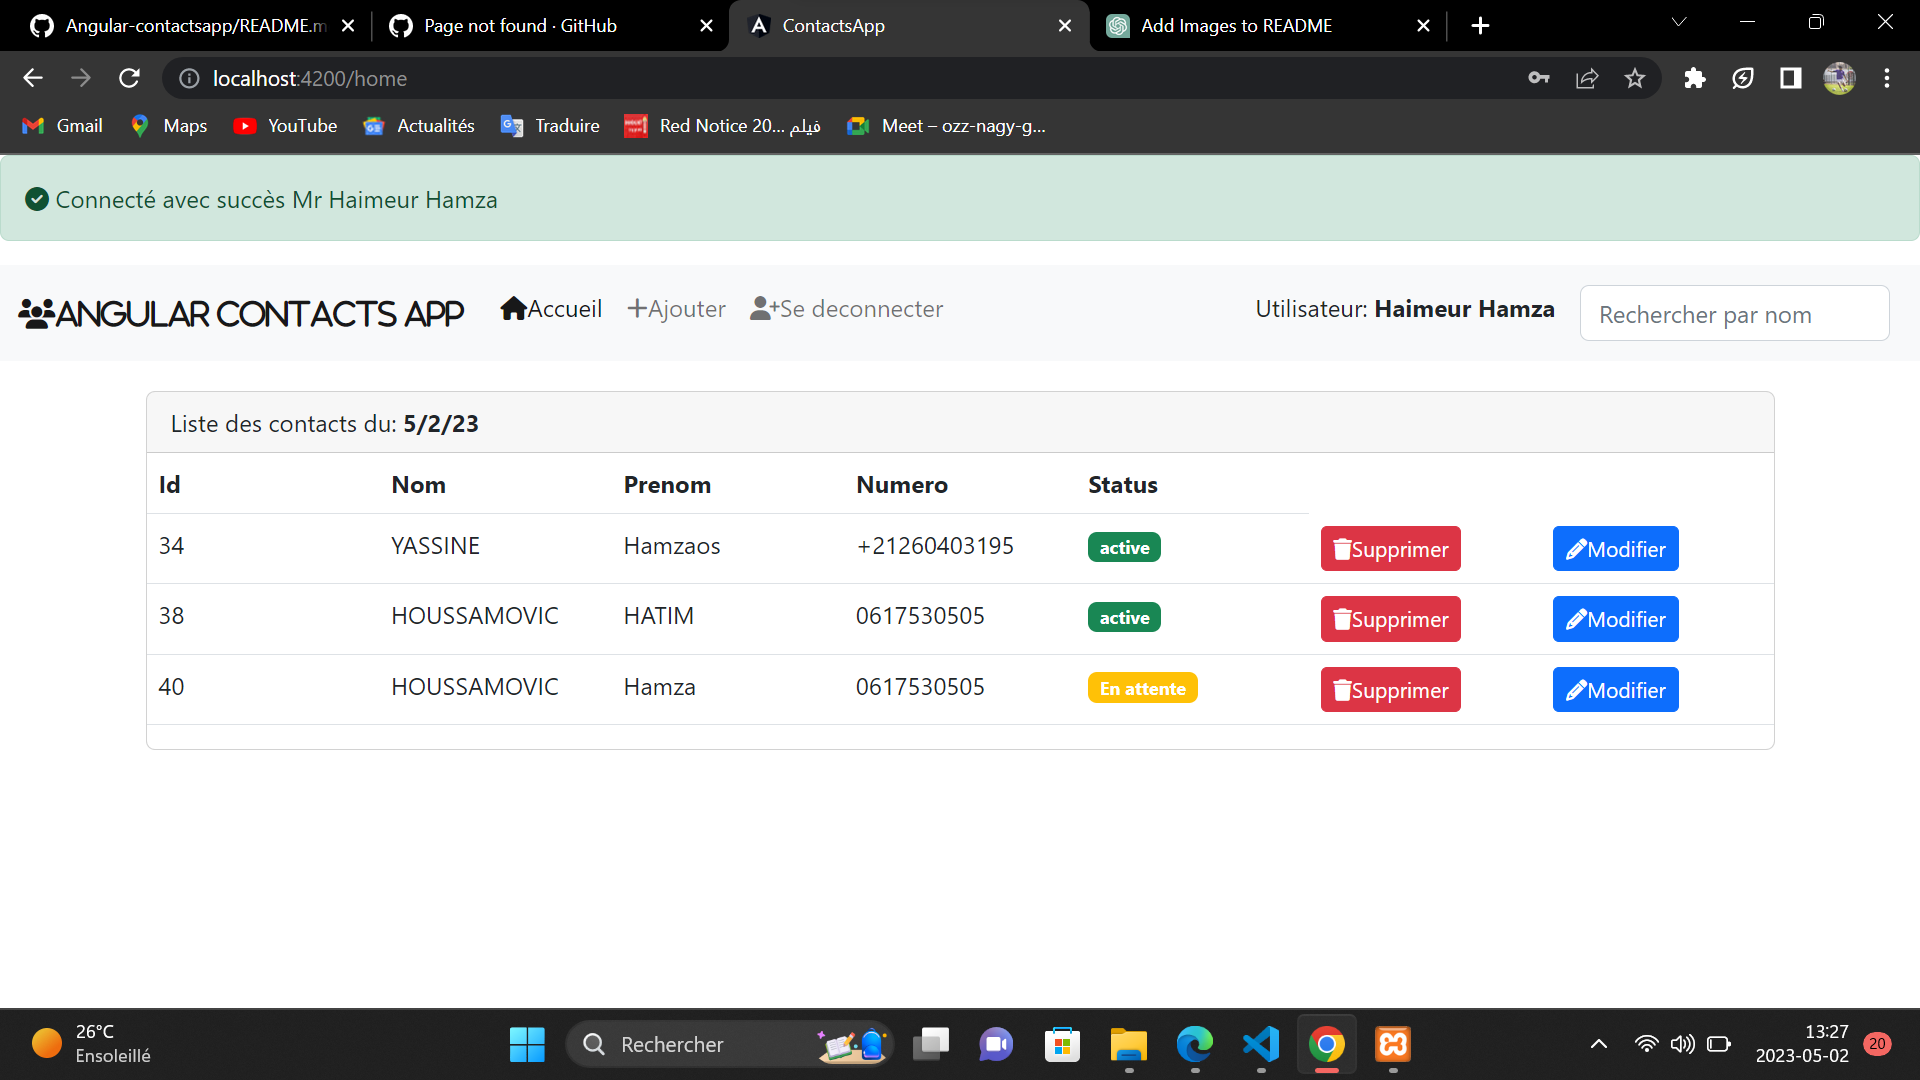
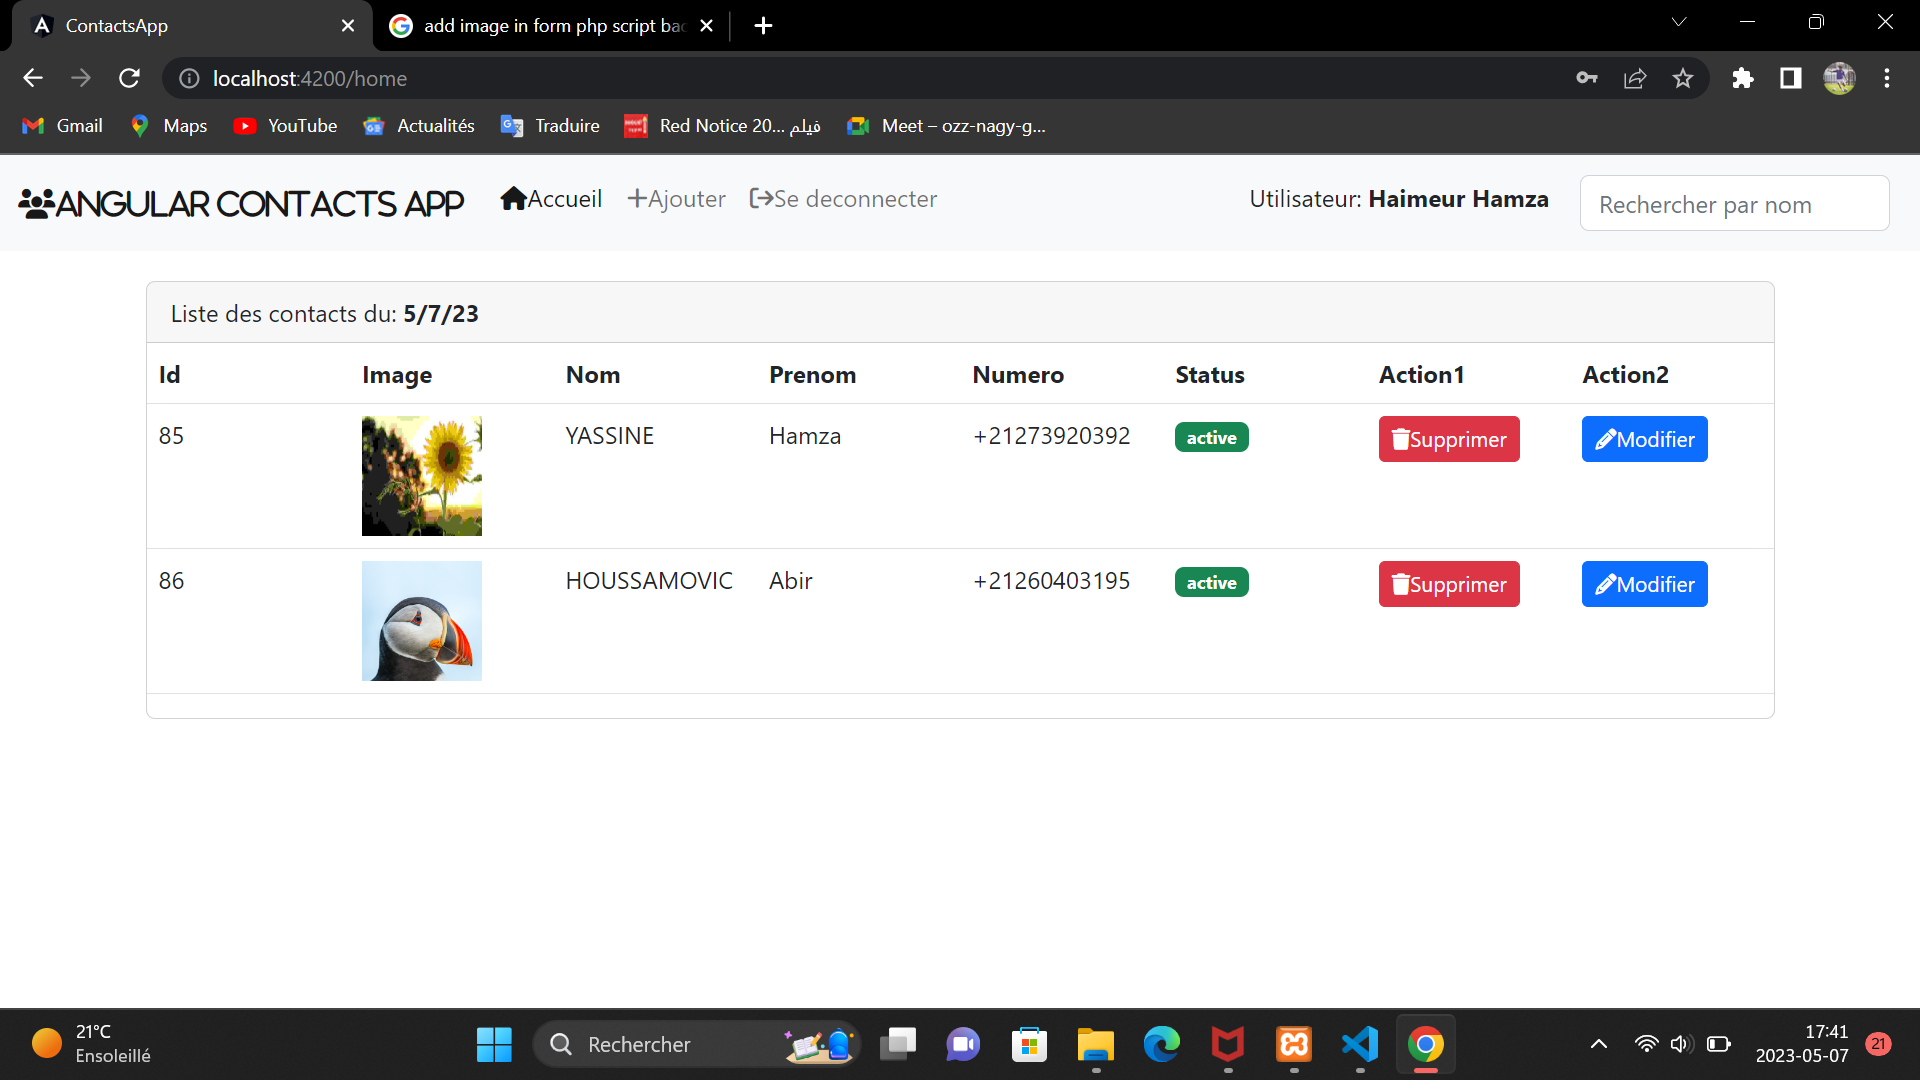
images

diff --git a/ContactsApp/src/app/add/add.component.html b/ContactsApp/src/app/add/add.component.html
@@ -1,41 +1,46 @@
 <div class="alert alert-success" *ngIf="showSuccessMessage" role="alert">
-    <i class="fas fa-check-circle animated-icon"></i>
-    Contact ajouté avec succés!
+  <i class="fas fa-check-circle animated-icon"></i>
+  Contact ajouté avec succés!
 </div>
 <div class="container">
-    <div class="card col-sm-5">
-        <div class="card-header"><i class="fa fa-plus">ajouter un patient</i></div>
-        <div class="card-body d-flex justify-content-center align-items-center h-100">
-            <form class="row" method="post">
-                <div class="col-md-12 mb-3">
-                    <label for="nomInput" class="form-label">Nom</label>
-                    <input [(ngModel)]="newContact.nom" name="nom" required type="text" class="form-control"
-                        placeholder="Nom">
-                </div>
-                <div class="col-md-12 mb-3">
-                    <label for="prenomInput" class="form-label">Prénom</label>
-                    <input [(ngModel)]="newContact.prenom" name="prenom" required type="text" class="form-control"
-                        id="prenomInput" placeholder="Prénom">
-                </div>
-                <div class="col-md-12 mb-3">
-                    <label for="telInput" class="form-label">Tel</label>
-                    <input [(ngModel)]="newContact.tel" name="tel" required type="text" class="form-control"
-                        id="telInput" placeholder="Tel">
-                </div>
-                <div class="col-md-12 mb-3">
-                    <label for="statusInput" class="form-label">Status</label>
-                    <select [(ngModel)]="newContact.status" name="status" required class="form-control"
-                        id="statusInput">
-                        <option disabled value="">-- choisir --</option>
-                        <option [ngValue]="'active'">active</option>
-                        <option [ngValue]="'inactive'">inactive</option>
-                    </select>
-                </div>
-                <div class="col-md-12">
-                    <button [disabled]="!formIsValid()" (click)="saveContact()"
-                        class="btn btn-primary w-100">Ajouter</button>
-                </div>
-            </form>
-        </div>
-    </div>
+  <div class="card col-sm-5">
+      <div class="card-header"><i class="fa fa-plus">ajouter un patient</i></div>
+      <div class="card-body d-flex justify-content-center align-items-center h-100">
+          <form class="row" method="post">
+              <div class="col-md-12 mb-3">
+                  <label for="nomInput" class="form-label">Nom</label>
+                  <input [(ngModel)]="newContact.nom" name="nom" required type="text" class="form-control"
+                      placeholder="Nom">
+              </div>
+              <div class="col-md-12 mb-3">
+                  <label for="prenomInput" class="form-label">Prénom</label>
+                  <input [(ngModel)]="newContact.prenom" name="prenom" required type="text" class="form-control"
+                      id="prenomInput" placeholder="Prénom">
+              </div>
+              <div class="col-md-12 mb-3">
+                  <label for="telInput" class="form-label">Tel</label>
+                  <input [(ngModel)]="newContact.tel" name="tel" required type="text" class="form-control"
+                      id="telInput" placeholder="Tel">
+              </div>
+              <div class="col-md-12 mb-3">
+                  <label for="statusInput" class="form-label">Status</label>
+                  <select [(ngModel)]="newContact.status" name="status" required class="form-control"
+                      id="statusInput">
+                      <option disabled value="">-- choisir --</option>
+                      <option [ngValue]="'active'">active</option>
+                      <option [ngValue]="'inactive'">inactive</option>
+                  </select>
+              </div>
+              <div class="col-md-12 mb-3">
+                <label for="imageInput" class="form-label">Image</label>
+                <img class="form-control" *ngIf="newContact.image" [src]="newContact.image" alt="Uploaded Image" height="300px" width="300px">
+                <input (change)=" onFileSelected($event)" type="file" name="image" id="imageInput" class="form-control">
+              </div>
+              <div class="col-md-12">
+                  <button [disabled]="!formIsValid()" (click)="saveContact()"
+                      class="btn btn-primary w-100">Ajouter</button>
+              </div>
+          </form>
+      </div>
+  </div>
 </div>

diff --git a/ContactsApp/src/app/add/add.component.ts b/ContactsApp/src/app/add/add.component.ts
@@ -12,6 +12,7 @@ export class AddComponent {
 
   newContact: Contact = new Contact(); // instancier nouveau objet pour ajouter un contact
   showSuccessMessage: boolean = false;
+  selectedFile: File | null = null;
 
   constructor(private contactService: ContactService, private router: Router) { }
 
@@ -19,7 +20,18 @@ export class AddComponent {
 
   }
 
-  saveContact() {
+  onFileSelected(event: any) {
+    this.selectedFile = event.target.files[0];
+    if (this.selectedFile) {
+      const reader = new FileReader();
+      reader.onload = (e: any) => {
+        this.newContact.image = e.target.result;
+      };
+      reader.readAsDataURL(this.selectedFile);
+    }
+  }
+
+  /*saveContact() {
     this.contactService.addContact(this.newContact).subscribe(
       (response) => {
         //console.log(response);
@@ -32,7 +44,50 @@ export class AddComponent {
       }), (error: any) => {
         console.log(error);
       }
-  }
+  }*/
+
+  saveContact() {
+    console.log(this.newContact);
+    if (!this.formIsValid()) {
+      return;
+    }
+  
+    if (this.selectedFile) {
+      // Create a new Contact object with the form data
+      const newContact: Contact = {
+        id: 0,
+        nom: this.newContact.nom,
+        prenom: this.newContact.prenom,
+        tel: this.newContact.tel,
+        status: this.newContact.status,
+        image: this.selectedFile
+      };
+
+      console.log(newContact);
+  
+      // Upload the image file
+      this.contactService.addContact(newContact, this.selectedFile).subscribe(
+        (response) => {
+          this.showSuccessMessage = true;
+          console.log(this.newContact);
+          setTimeout(() => this.showSuccessMessage = false, 3000);
+          this.newContact.nom = '';
+          this.newContact.prenom = '';
+          this.newContact.tel = '';
+          this.selectedFile = null;
+        },
+        (error: any) => {
+          console.log("whatsapp");
+        }
+      );
+    } else {
+   
+       console.log("papa");
+        }
+    }
+  
+
+  
 
   formIsValid() {
     return (

diff --git a/ContactsApp/src/app/contact.service.ts b/ContactsApp/src/app/contact.service.ts
@@ -2,6 +2,8 @@ import { Injectable } from '@angular/core';
 import { Contact } from './contact.class';
 import { HttpClient } from '@angular/common/http';
 import { Observable } from 'rxjs';
+import { catchError, throwError } from 'rxjs';
+
 
 
 @Injectable({
@@ -16,9 +18,27 @@ export class ContactService {
   }
 
   //enregistrer un nouveau contact à l'aide de l'api add_contact
-  addContact(newContact: Contact): Observable<Contact> {
+  /*addContact(newContact: Contact): Observable<Contact> {
     return this.httpClient.post<Contact>("http://localhost/contacts-app-php.api/add_contact.php", newContact);
-  }
+  }*/
+
+  addContact(newContact: Contact, imageFile: File): Observable<Contact> {
+  const formData = new FormData();
+  formData.append('nom', newContact.nom);
+  formData.append('prenom', newContact.prenom);
+  formData.append('tel', newContact.tel);
+  formData.append('status', newContact.status);
+  formData.append('image', imageFile);
+
+  return this.httpClient.post<Contact>("http://localhost/contacts-app-php.api/add_contact.php", formData)
+    .pipe(
+      catchError((error: any) => {
+        console.error(error);
+        return throwError(error);
+      })
+    );
+}
+  
 
   //modifier un contact à l'aide de l'api update_contact
   updateContact(editContact: Contact): Observable<Contact> {
@@ -39,4 +59,3 @@ export class ContactService {
 
 
 }
-

diff --git a/ContactsApp/src/app/home/home.component.html b/ContactsApp/src/app/home/home.component.html
@@ -16,15 +16,19 @@
                 <thead>
                     <tr>
                         <th scope="col">Id</th>
+                        <th scope="col">Image</th>
                         <th scope="col">Nom</th>
                         <th scope="col">Prenom</th>
                         <th scope="col">Numero</th>
                         <th scope="col">Status</th>
+                        <th scope="col">Action1</th>
+                        <th scope="col">Action2</th>
                     </tr>
                 </thead>
                 <tbody>
                     <tr *ngFor="let contact of Contacts; let i = index">
                         <td>{{contact.id}}</td>
+                        <td><img [src]="'http://localhost/contacts-app-php.api/' +contact.image" alt="Contact Image" width="80" height="80"></td>
                         <td>{{contact.nom | uppercase}}</td>
                         <td>{{contact.prenom}}</td>
                         <td>{{contact.tel}}</td>
@@ -46,7 +50,7 @@
                                 </span>
                             </td>
                         </ng-template>
-
+                       
                     </tr>
                 </tbody>
             </table>

diff --git a/ContactsApp/src/app/home/home.component.ts b/ContactsApp/src/app/home/home.component.ts
@@ -52,6 +52,7 @@ export class HomeComponent implements OnInit {
     this.ContactToEdit.prenom = this.Contacts?.[index].prenom;
     this.ContactToEdit.tel = this.Contacts?.[index].tel;
     this.ContactToEdit.status = this.Contacts?.[index].status;
+    this.ContactToEdit.image = this.Contacts?.[index].image;
     this.editIndex = index; // modifier l'index passé en parametre
     //console.log('ContactToEdit:', this.ContactToEdit);
     //console.log("appel de methode avec succés");
@@ -65,6 +66,7 @@ export class HomeComponent implements OnInit {
       updatedContact.prenom = response.prenom;
       updatedContact.tel = response.tel;
       updatedContact.status = response.status;
+      updatedContact.image = response.image;
 
       this.Contacts[this.editIndex as number] = updatedContact; // remplacer l'ancien contact par le nouveau dans le tableau
 

diff --git a/ContactsApp/src/app/app.module.ts b/ContactsApp/src/app/app.module.ts
@@ -8,6 +8,7 @@ import { HttpClientModule } from '@angular/common/http';
 import { FormsModule } from '@angular/forms';
 import { LoginComponent } from './login/login.component';
 import { AuthComponent } from './auth/auth.component'; // import FormsModule
+import { ReactiveFormsModule } from '@angular/forms';
 
 @NgModule({
   declarations: [
@@ -21,7 +22,8 @@ import { AuthComponent } from './auth/auth.component'; // import FormsModule
     BrowserModule,
     AppRoutingModule,
     HttpClientModule,
-    FormsModule // ajouter FormsModule à imports
+    FormsModule,
+    ReactiveFormsModule // ajouter FormsModule à imports
   ],
   providers: [],
   bootstrap: [AppComponent] // component a demarrer au depart

diff --git a/ContactsApp/src/app/app.component.html b/ContactsApp/src/app/app.component.html
@@ -36,7 +36,7 @@
           </li>
           <li class="nav-item">
             <a (click) = "signOut()" routerLink="login" class="nav-link" *ngIf="logged">
-          <li class="fa fa-user-plus"></li>Se deconnecter</a>
+          <li class="fa fa-sign-out"></li>Se deconnecter</a>
           </li>
           <div style = "margin-top: 8px; margin-left: 200px;" *ngIf="logged">
           <p *ngIf="logged">Utilisateur: <strong>{{existingUser?.nom}} {{existingUser?.prenom}}</strong></p>

diff --git a/ContactsApp/src/app/contact.class.ts b/ContactsApp/src/app/contact.class.ts
@@ -5,6 +5,7 @@ export class Contact {
   tel!: string;
   status!: string;
   Date ?: Date;
+  image!: File;
 
  
 } // contacts attributes
